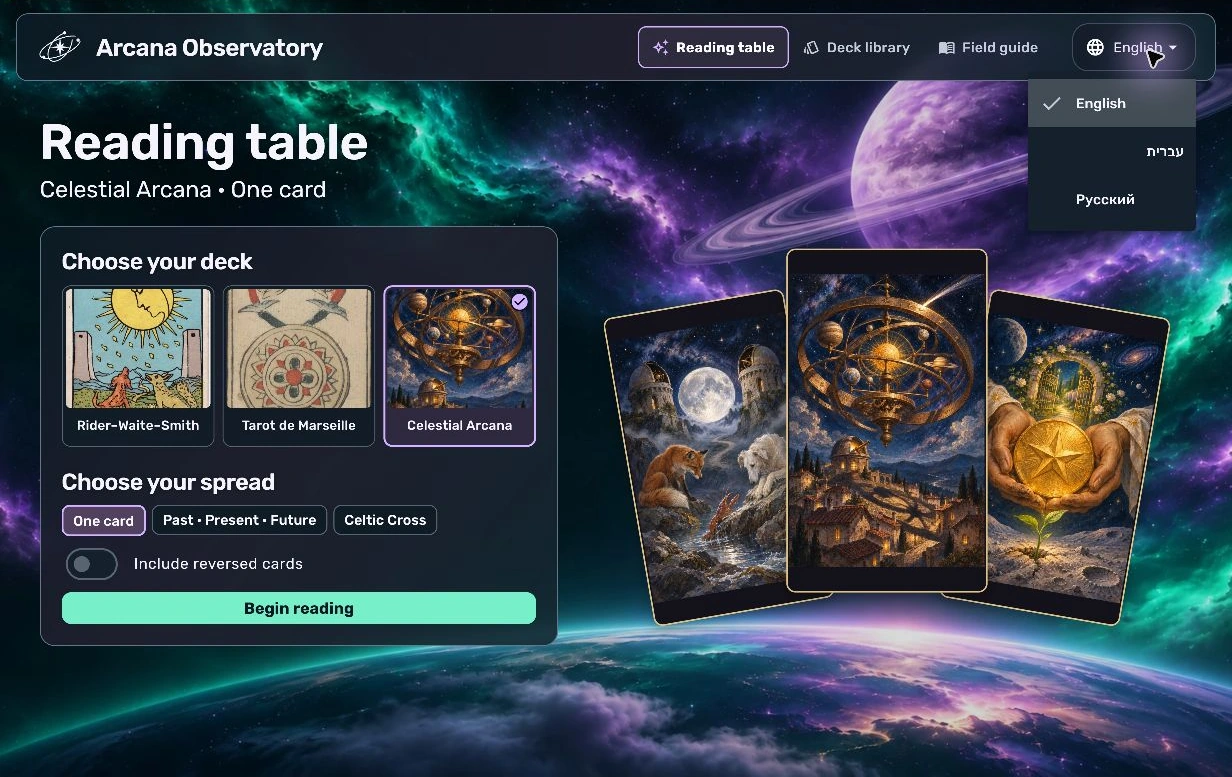
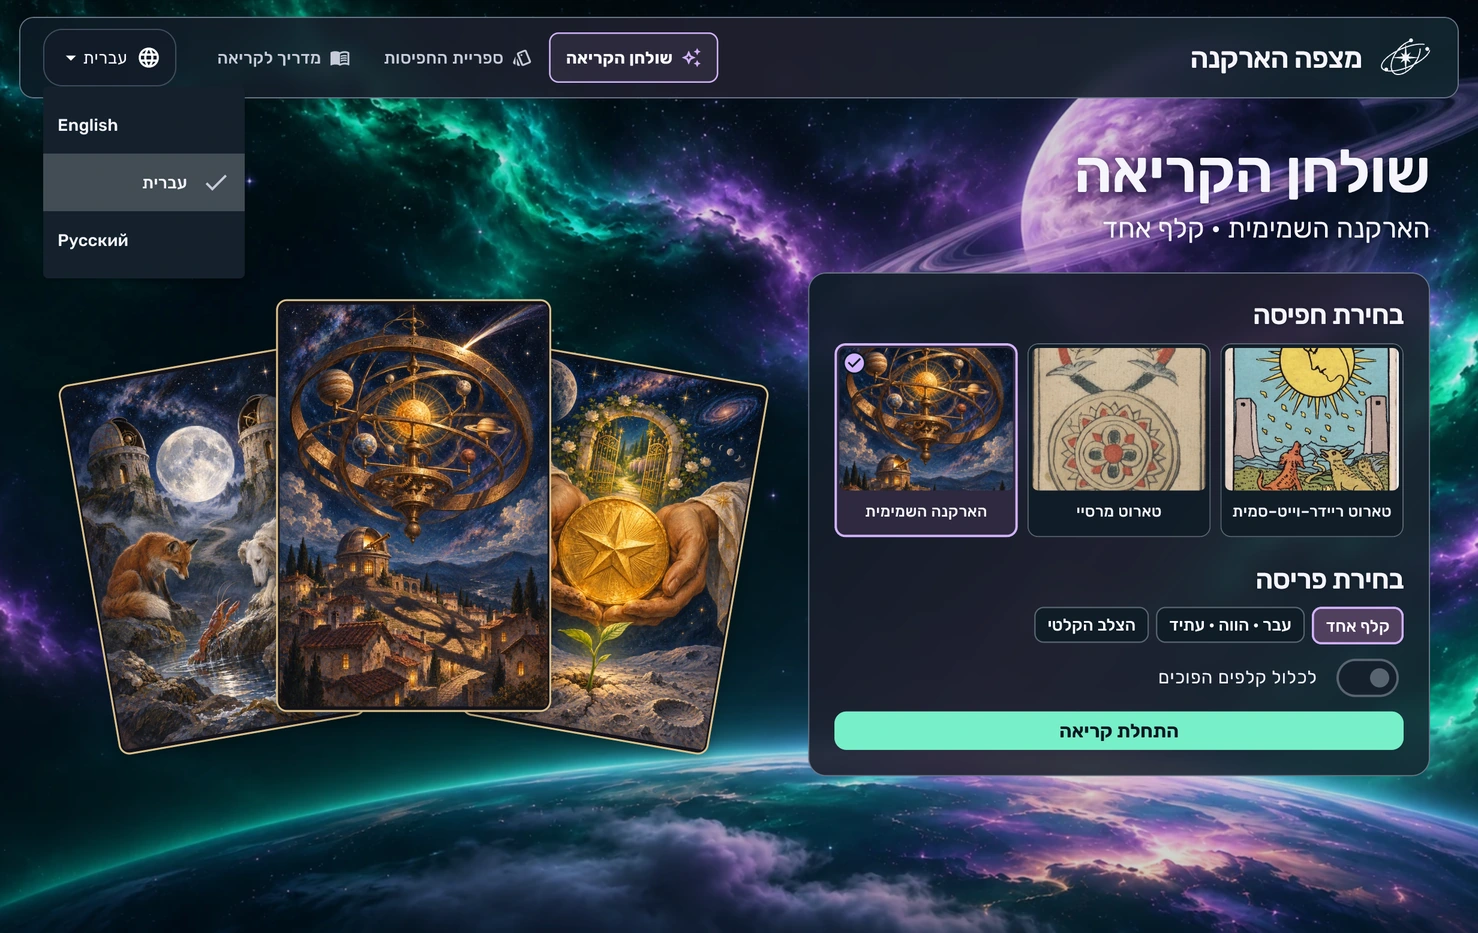
docs: show the Hebrew reading table in the Windows app

diff --git a/README.md b/README.md
@@ -12,7 +12,7 @@ Read a single card, follow a Past–Present–Future spread, or lay out the ten-
 
 Use the globe menu to choose **English**, **עברית**, or **Русский**. It updates the current reading, including the card names, interpretations and spread prompts. Hebrew uses a right-to-left layout. On first launch the app follows a supported device language and otherwise opens in English. It remembers your choice on this device.
 
-![The Arcana Observatory reading table on Windows](docs/reading-table.webp)
+![The Hebrew reading table on Windows, with the Celestial Arcana deck selected and the language menu open](docs/reading-table.webp)
 
 ## Run an app
 
